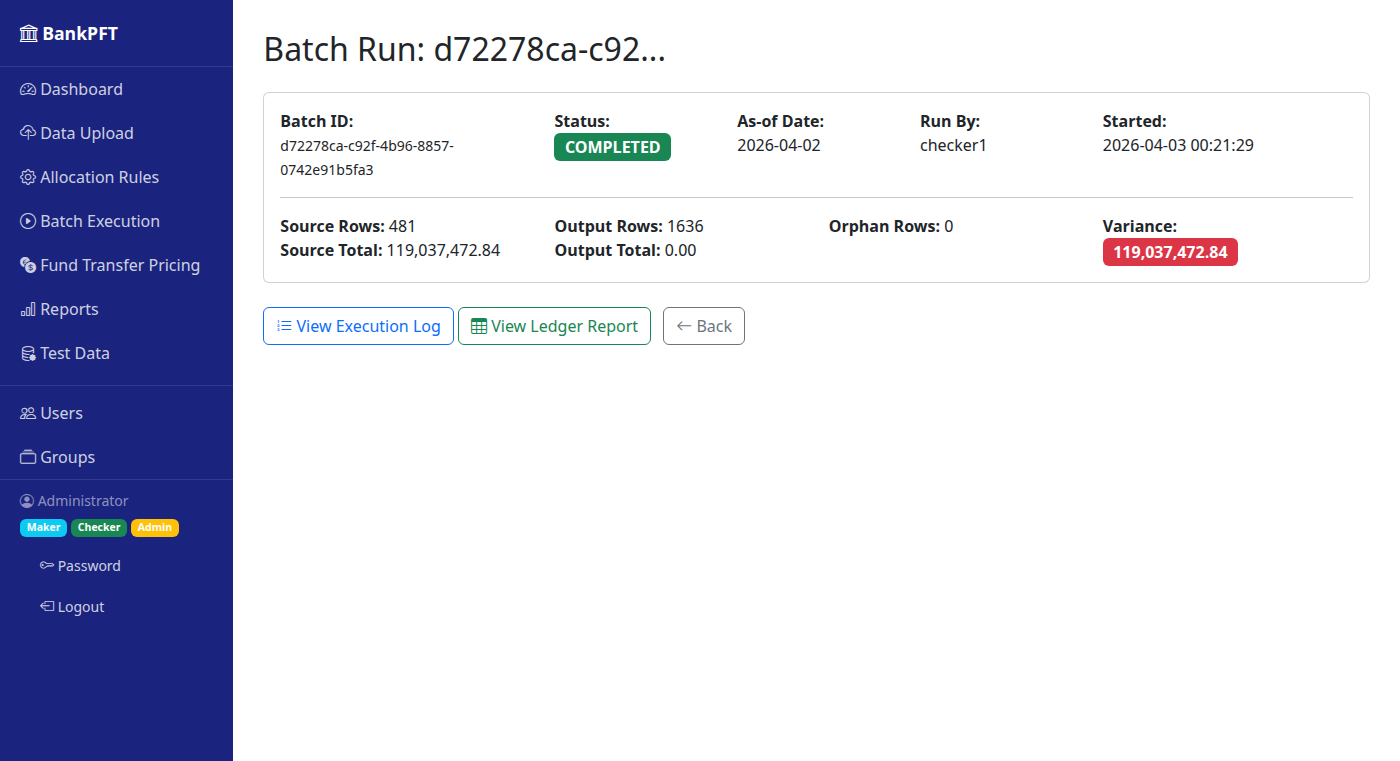
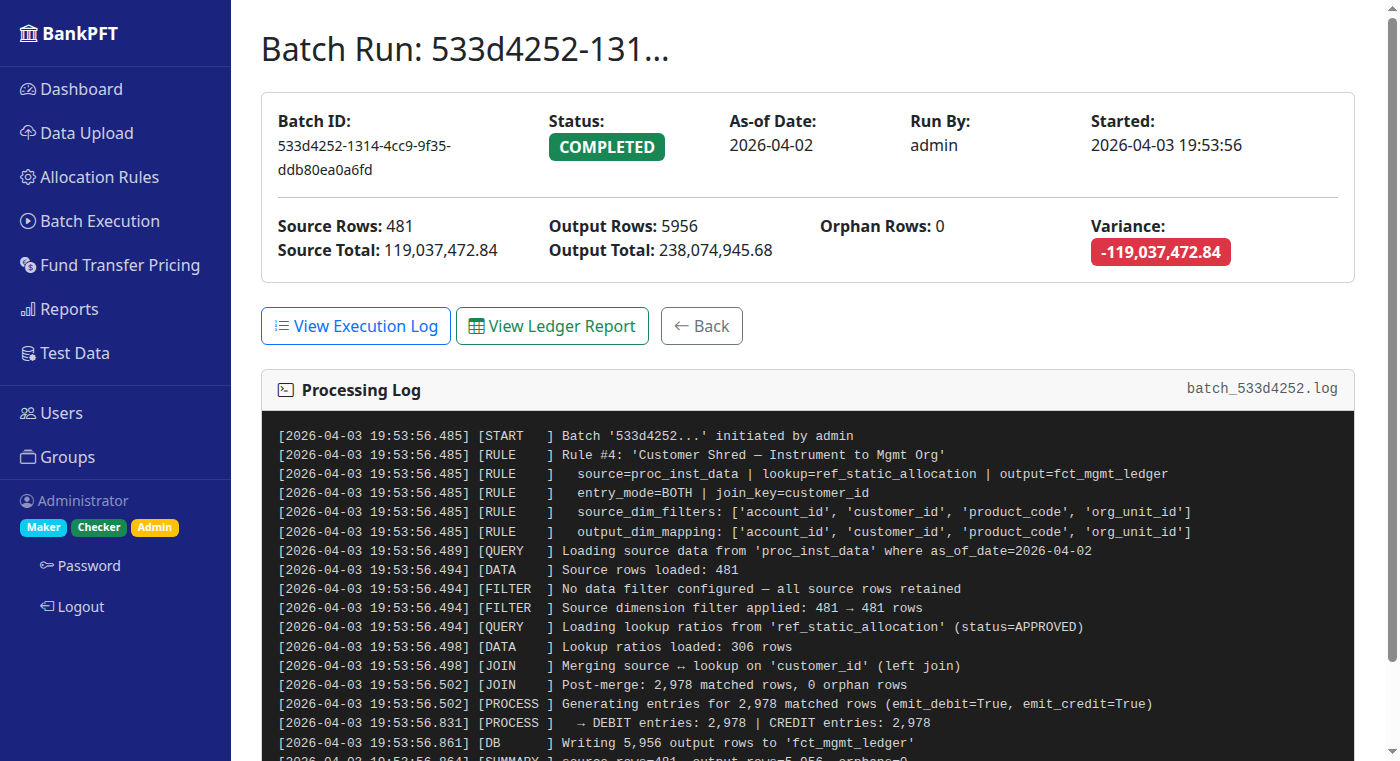
docs: update section 16 with batch detail stats table and processing log screenshot

diff --git a/docs/WALKTHROUGH.md b/docs/WALKTHROUGH.md
@@ -454,16 +454,50 @@ The **Allocation Batch History** and **FTP Run History** tables are shown separa
 
 **URL:** `/batch/<batch_id>`
 
-View details of a completed batch run.
+View the full results of a completed batch run, including a granular processing log written by the engine.
 
 ![Batch Detail](images/14_batch_detail.png)
 
-**Key elements:**
-- Batch metadata (rule used, as-of date, status, timestamps)
-- Source and output row counts (output includes both DEBIT and CREDIT entries)
-- Orphan count — records with no lookup match
-- **Variance** — difference between source total and DEBIT output total (should be 0.00 when ratios sum to 1.0)
-- Link to execution log and Management Ledger report
+**Stats card fields:**
+
+| Field | Description |
+|---|---|
+| **Batch ID** | UUID assigned to this run |
+| **Status** | `RUNNING`, `COMPLETED`, or `FAILED` |
+| **As-of Date** | The date used to filter source data |
+| **Run By** | Username who triggered the batch |
+| **Started** | Timestamp when the run began |
+| **Source Rows** | Rows loaded from the source table after all filters |
+| **Source Total** | Sum of the primary balance column from source data |
+| **Output Rows** | Total rows written (DEBIT + CREDIT entries combined) |
+| **Output Total** | Sum of allocated balances for DEBIT rows only |
+| **Orphan Rows** | Source rows with no matching lookup ratio |
+| **Variance** | `source_total − output_total` — should be 0 when ratios sum to 1.0 |
+
+### Processing Log
+
+Every engine run writes a timestamped log file to `instance/batch_logs/batch_<id>.log`. The full contents are displayed in a scrollable dark panel directly on the detail page.
+
+![Batch Detail with Processing Log](images/14b_batch_detail_log.png)
+
+**Log levels and what each line records:**
+
+| Level | What is logged |
+|---|---|
+| `START` | Batch ID (first 8 chars) and user who triggered it |
+| `RULE` | Rule name, source / lookup / output tables, entry mode, join key, dim config keys |
+| `QUERY` | Table name and filter applied before each database read |
+| `DATA` | Row count returned from each query |
+| `FILTER` | Rows before → after each filter pass (data filter and source dim filter) |
+| `JOIN` | Join key and type, plus matched vs orphan counts after the merge |
+| `PROCESS` | Matched row count, emit flags, and final DEBIT / CREDIT entry counts |
+| `ORPHAN` | Orphan row count and the default ratio applied |
+| `DB` | Number of rows written to the output table |
+| `SUMMARY` | Source rows, output rows, orphans, source total, output total, variance |
+| `COMPLETE` | Total wall-clock time for the batch in seconds |
+| `ERROR` / `FAILED` | Exception message if the run fails at any point |
+
+The log file path (`batch_<id[:8]>.log`) is shown in the card header. Log files are stored at `instance/batch_logs/` and are never deleted automatically.
 
 ---
 
